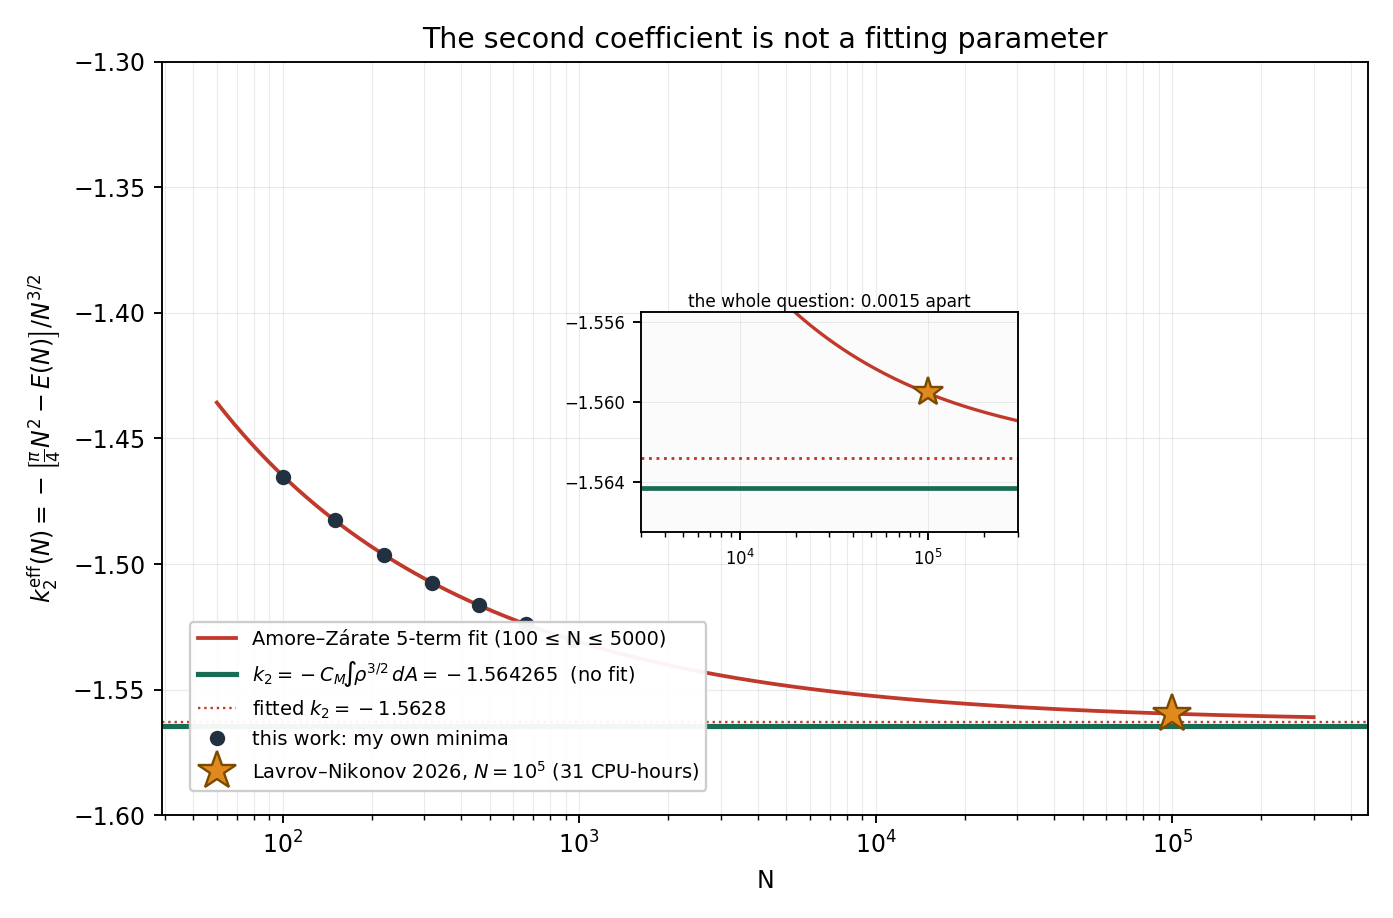
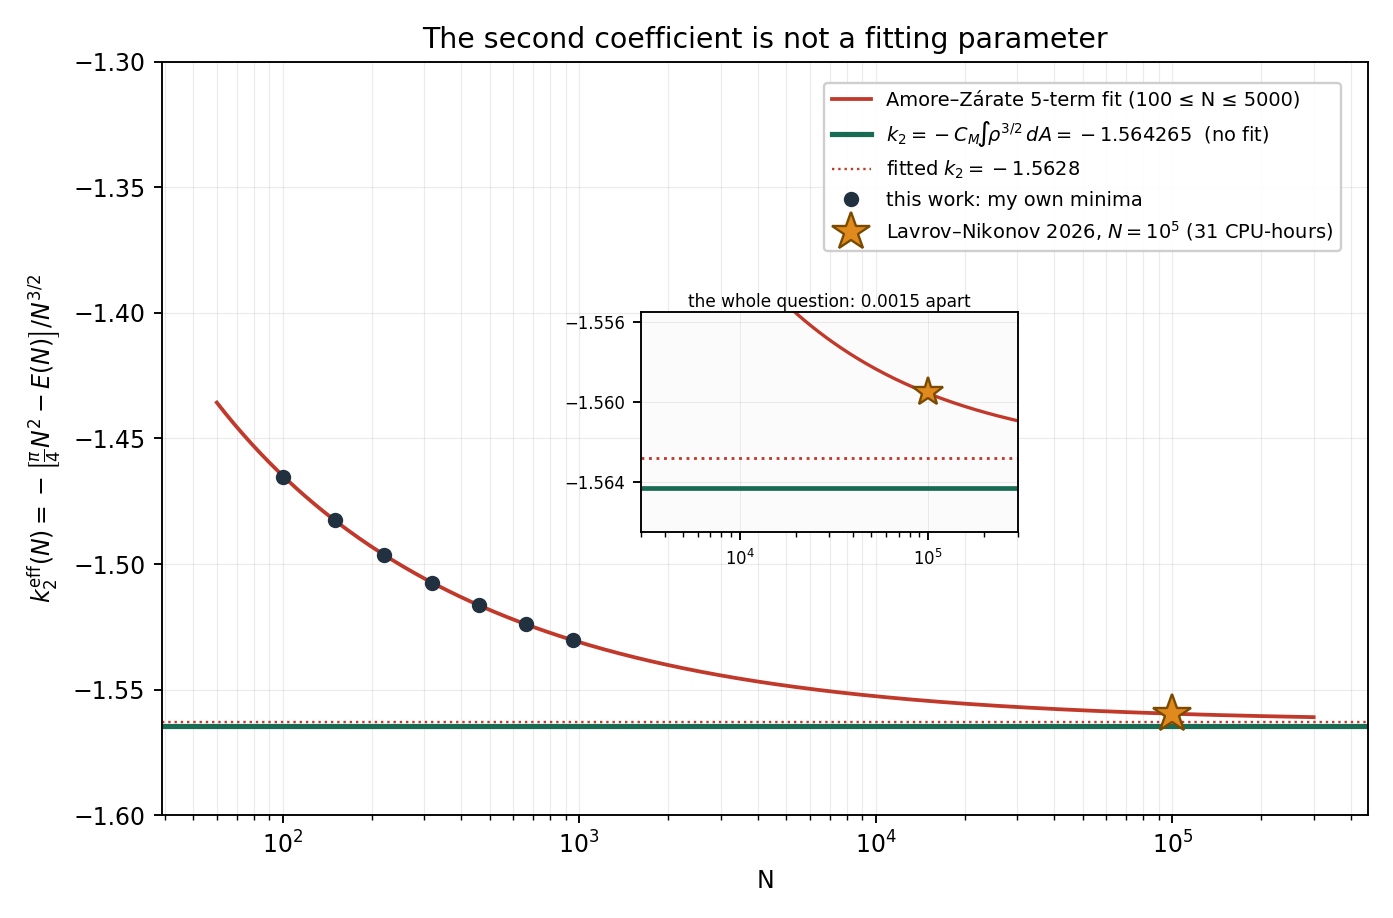
figure: legend was hiding the seventh point
Looked at the render instead of trusting that it regenerated.  N=950 sat
exactly under the legend box; moved it to the empty upper-right.  All seven
minima now visible lying on Amore-Zarate's published curve.

Changed region(s): [[0.1235, 0.671, 0.5248, 0.854], [0.5865, 0.0915, 0.9569, 0.2745]]

diff --git a/2609.24722-charges-in-a-disk/figure.py b/2609.24722-charges-in-a-disk/figure.py
@@ -51,8 +51,8 @@ def main(path="ladder.json", out="running_k2.png"):
     ax.set_ylabel(r"$k_2^{\rm eff}(N)=-\left[\frac{\pi}{4}N^2-E(N)\right]/N^{3/2}$")
     ax.set_title("The second coefficient is not a fitting parameter", fontsize=12)
     ax.grid(alpha=.25, which="both", lw=.5)
-    ax.legend(loc="lower left", fontsize=8.2, framealpha=.95,
-              bbox_to_anchor=(0.015, 0.02))
+    ax.legend(loc="upper right", fontsize=8.2, framealpha=.95,
+              bbox_to_anchor=(0.985, 0.985))
     ax.set_ylim(-1.60, -1.30)
 
     # inset: the two candidate k2 values, at a scale where they separate
